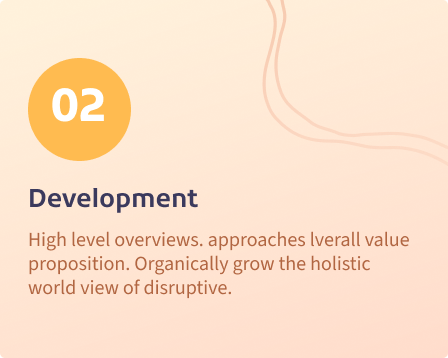
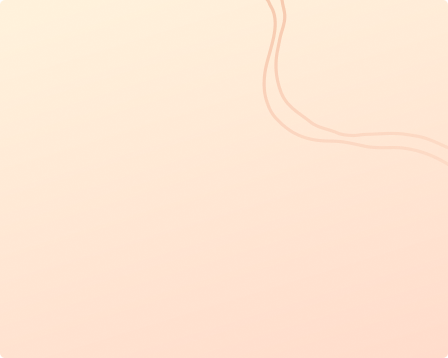
nhungupdate

Changed region(s): [[0.0625, 0.6453, 0.9062, 0.8296], [0.0625, 0.1536, 0.3125, 0.4609], [0.0625, 0.5223, 0.4375, 0.6145]]

diff --git a/WEB_BANCANHO/src/about.html b/WEB_BANCANHO/src/about.html
@@ -1,5 +1,6 @@
 <!DOCTYPE html>
 <html lang="en">
+
 <head>
     <meta charset="UTF-8">
     <meta name="viewport" content="width=device-width, initial-scale=1.0">
@@ -10,45 +11,40 @@
     <link rel="stylesheet" href="https://cdnjs.cloudflare.com/ajax/libs/font-awesome/6.5.2/css/all.min.css">
 
 </head>
+
 <body>
-    <header>
-        <div class="container">
-            <div class="header">
-              <div class="content_header">
-                <div class="header_logo">
-                  <a href="#" class="logo"><img src="../img/header/logo.png" alt="Logo thương hiệu"></a>
-                </div>
-                  <div class="list_header">
-                    <a href="#" class="link_list_header">Home</a>
-                    <a href="#" class="link_list_header">About</a>
-                    <a href="#" class="link_list_header">Properties</a>
-                    <a href="#" class="link_list_header">Pages</a>
-                    <a href="#" class="link_list_header">Blog</a>
-                    <a href=" " class="contact-button">Contact</a>
-                  </div>
-              </div>
-              
-                
-              
-            </div>  
+    <div class="header">
+        <div class="content_header">
+            <div class="header_logo">
+                <a href="#" class="logo"><img src="../img/header/logo.png" alt="Logo thương hiệu"></a>
+            </div>
+            <div class="list_header">
+                <a href="homepage.html" class="link_list_header">Home</a>
+                <a href="about.html" class="link_list_header">About</a>
+                <a href="property.html" class="link_list_header">Properties</a>
+                <a href="#" class="link_list_header">Pages</a>
+                <a href="blog.html" class="link_list_header">Blog</a>
+                <a href="contact_us.html" class="contact-button">Contact</a>
+            </div>
         </div>
         <script>
             window.addEventListener("scroll", function () {
-              var header = document.querySelector('.header');
-              header.classList.toggle("sticky", window.scrollY > 50); /* Thêm hoặc xóa lớp 'sticky' tùy thuộc vào vị trí cuộn của cửa sổ */
+                var header = document.querySelector('.header');
+                header.classList.toggle("sticky", window.scrollY > 50); /* Thêm hoặc xóa lớp 'sticky' tùy thuộc vào vị trí cuộn của cửa sổ */
             });
         </script>
-    </header>
+    </div>
     <div class="content">
         <div class="background_about">
             <div class="background_text">
                 <img src="../img/about/logo.png">
-                <p style="color: #3B3A5D; font-size: 55px; font-weight: bolder; padding-top: 15px;">About Our Real <br> Estate</p>
+                <p style="color: #3B3A5D; font-size: 55px; font-weight: bolder; padding-top: 15px;">About Our Real <br>
+                    Estate</p>
             </div>
         </div>
         <div class="content_vintrovideo">
             <div class="picture_content1">
-                <img class="picture" src="../img/about/Image.png" >
+                <img class="picture" src="../img/about/Image.png">
                 <div class="picture_text">
                     <div class="text_picture">
                         <p>|</p>
@@ -57,22 +53,29 @@
                         <P>V I D E O</P>
                         <p>|</p>
                     </div>
-                    <p style="color: #3B3A5D; font-size: 32px; font-weight: bolder;">Buying & Selling Property <br> In An Easy Way</p>
-                    <p style="color: #B16642; font-size: 15px;">Distinctively re-engineer revolutionary meta-services and premium At vero eos et accusamus et iusto odio dignissimos ducimus qui blanditiis praesentium voluptatum deleniti atque corrupti quos dolores et quas molestias excepturi.</p>
+                    <p style="color: #3B3A5D; font-size: 32px; font-weight: bolder;">Buying & Selling Property <br> In
+                        An Easy Way</p>
+                    <p style="color: #B16642; font-size: 15px;">Distinctively re-engineer revolutionary meta-services
+                        and premium At vero eos et accusamus et iusto odio dignissimos ducimus qui blanditiis
+                        praesentium voluptatum deleniti atque corrupti quos dolores et quas molestias excepturi.</p>
                     <div class="text_information">
                         <div class="information">
                             <div class="information_text">
-                                <img src="../img/about/Icon_home.png" >
+                                <img src="../img/about/Icon_home.png">
                                 <div class="text1">
                                     <p style="color: #3B3A5D; font-size: 20px; font-weight: bolder;">Our Vision</p>
-                                    <p style="font-size: 13px; color:#7D7D7D;">Distinctively re-engineer revolutionary meta-services and premium At vero eos et accusamus et iusto odio dignissimos ducimus qui blanditiis</p>
+                                    <p style="font-size: 13px; color:#7D7D7D;">Distinctively re-engineer revolutionary
+                                        meta-services and premium At vero eos et accusamus et iusto odio dignissimos
+                                        ducimus qui blanditiis</p>
                                 </div>
                             </div>
                             <div class="information_text">
-                                <img src="../img/about/Icon.svg" >
+                                <img src="../img/about/Icon.svg">
                                 <div class="text1">
                                     <p style="color: #3B3A5D; font-size: 20px; font-weight: bolder;">Our Mission</p>
-                                    <p style="font-size: 13px; color:#7D7D7D;">Distinctively re-engineer revolutionary meta-services and premium At vero eos et accusamus et iusto odio dignissimos ducimus qui blanditiis</p>
+                                    <p style="font-size: 13px; color:#7D7D7D;">Distinctively re-engineer revolutionary
+                                        meta-services and premium At vero eos et accusamus et iusto odio dignissimos
+                                        ducimus qui blanditiis</p>
                                 </div>
                             </div>
                         </div>
@@ -93,12 +96,87 @@
             </div>
             <div class="process_content">
                 <div class="process1">
-                    <div class="text1">01</div>
-                    <p style="color: #3B3A5D; font-size: 20px; font-weight: bolder;">Planning stage</p>
-                    <p style="color: #B16642;">High level overviews. approaches lverall value proposition. Organically grow the holistic world view of disruptive.</p>
+                    <img src="../img/about/3.png">
+                    <div class="text_process">
+                        <div class="text2">01</div>
+                        <p style="color: #3B3A5D; font-size: 20px; font-weight: bolder;">Planning stage</p>
+                        <p style="color: #B16642;">High level overviews. approaches lverall value proposition. Organically grow the holistic world view of disruptive.</p>
+                    </div>
+                </div>
+                <div class="process1">
+                    <img src="../img/about/4.png">
+                    <div class="text_process">
+                        <div class="text2">02</div>
+                        <p style="color: #3B3A5D; font-size: 20px; font-weight: bolder;">Development</p>
+                        <p style="color: #B16642;">High level overviews. approaches lverall value proposition. Organically grow the holistic world view of disruptive.</p>
+                    </div>
+                </div>
+                <div class="process1">
+                    <img src="../img/about/5.png">
+                    <div class="text_process">
+                        <div class="text2">03</div>
+                        <p style="color: #3B3A5D; font-size: 20px; font-weight: bolder;">New way of living</p>
+                        <p style="color: #B16642;">High level overviews. approaches lverall value proposition. Organically grow the holistic world view of disruptive.</p>
+                    </div>
                 </div>
             </div>
         </div>
+        <div class="information1">
+            <div class="text4">What our customers say about us</div>
+            <div class="information_customer">      
+                <div class="customer1">
+                    <div class="customer1_text">
+                        <p>Distinctively re-engineer revolutionary services and <span style="color: #A7542A; font-weight: bolder;">premium At vero accusamus</span> et iustoDignissimos ducimus qui blanditiis praesentium voluptatum deleniti atque corrupti quos dolores .</p>
+                    </div>
+                    <div class="picture_customer1">
+                        <img src="../img/about/picture_1.png" alt="">
+                        <div class="customer1_information">
+                            <p style="color: #3B3A5D; font-size: 20px;"><strong>Victor Murphy</strong></p>
+                            <p style="color: #B16642;">Happy Customers</p>
+                        </div>
+                    </div>
+                </div>
+                <div class="customer1">
+                    <div class="customer1_text">
+                        <p>Completely synergize resource taxing <span style="color: #A7542A; font-weight: bolder;">relationships</span> via premier. Professionally cultivate one-to-one customer service with robust ideas.</p>
+                        <p>Dynamically <span style="color: #3B3A5D; font-weight: bolder;">innovate resource-leveling customer</span> service for state of the art customer service.</p>
+                    </div>
+                    <div class="picture_customer1">
+                        <img src="../img/about/picture_2.png" alt="">
+                        <div class="customer1_information">
+                            <p style="color: #3B3A5D; font-size: 20px;"><strong>Victor Murphy</strong></p>
+                            <p style="color: #B16642;">Happy Customers</p>
+                        </div>
+                    </div>
+                </div>
+                <div class="customer1">
+                    <div class="customer1_text">
+                        <p>Distinctively re-engineer revolutionary services and <span style="color:#A7542A;font-weight: bolder;">premium</span> At vero accusamus et iustoDignissimos .</p>
+                    </div>
+                    <div class="picture_customer1">
+                        <img src="../img/about/picture_3.png" alt="">
+                        <div class="customer1_information">
+                            <p style="color: #3B3A5D; font-size: 20px;"><strong>Ne Peeter Walker</strong></p>
+                            <p style="color: #B16642;">Happy Customers</p>
+                        </div>
+                    </div>
+                </div>
+                <div class="customer1">
+                    <div class="customer1_text">
+                        <p>Proactively envisioned multimedia based expertise and <span style="color: #B16642;font-weight: bolder;">cross-media growth strategies. Seamlessly visualize</span> quality intellectual capital without superior colla idea-sharing. Holistically pontificate installed base portals after maintainable products.</p>
+                        <p> Phosfluorescently engage methodologies with web-enabled technology.</p>
+                    </div>
+                    <div class="picture_customer1">
+                        <img src="../img/about/picture_4.png" alt="">
+                        <div class="customer1_information">
+                            <p style="color: #3B3A5D; font-size: 20px;"><strong>Nancy Mithi</strong></p>
+                            <p style="color: #B16642;">Happy Customers</p>
+                        </div>
+                    </div>
+                </div>
+            </div>
+        </div>
+        
     </div>
     <footer>
         <div class="content_footer">
@@ -189,4 +267,5 @@
         </div>
     </footer>
 </body>
+
 </html>

diff --git a/WEB_BANCANHO/src/blog_single.html b/WEB_BANCANHO/src/blog_single.html
@@ -11,26 +11,19 @@
 
 </head>
 <body>
-    <header>
-        <div class="container">
-            <div class="header">
-              <div class="content_header">
-                <div class="header_logo">
-                  <a href="#" class="logo"><img src="../img/header/logo.png" alt="Logo thương hiệu"></a>
-                </div>
-                  <div class="list_header">
-                    <a href="#" class="link_list_header">Home</a>
-                    <a href="#" class="link_list_header">About</a>
-                    <a href="#" class="link_list_header">Properties</a>
-                    <a href="#" class="link_list_header">Pages</a>
-                    <a href="#" class="link_list_header">Blog</a>
-                    <a href=" " class="contact-button">Contact</a>
-                  </div>
-              </div>
-              
-                
-              
-            </div>  
+    <div class="header">
+        <div class="content_header">
+          <div class="header_logo">
+            <a href="#" class="logo"><img src="../img/header/logo.png" alt="Logo thương hiệu"></a>
+          </div>
+          <div class="list_header">
+            <a href="homepage.html" class="link_list_header">Home</a>
+            <a href="about.html" class="link_list_header">About</a>
+            <a href="property.html" class="link_list_header">Properties</a>
+            <a href="#" class="link_list_header">Pages</a>
+            <a href="blog.html" class="link_list_header">Blog</a>
+            <a href="contact_us.html" class="contact-button">Contact</a>
+          </div>
         </div>
         <script>
             window.addEventListener("scroll", function () {
@@ -38,7 +31,7 @@
               header.classList.toggle("sticky", window.scrollY > 50); /* Thêm hoặc xóa lớp 'sticky' tùy thuộc vào vị trí cuộn của cửa sổ */
             });
         </script>
-    </header>
+    </div>
     <div class="content">
         <div class="background1">
             <div class="background1_blogsingle">

diff --git a/WEB_BANCANHO/src/css/about.css b/WEB_BANCANHO/src/css/about.css
@@ -85,20 +85,97 @@
     display: flex;
     flex-direction: column;
     align-items: center;
+    gap: 25px;
 }
 .process_text{
     display: flex;
     gap: 10px;
     color: #3B3A5D;
     justify-content: center;
+    padding-bottom: 15px;
+}
+.process_content{
+    display: flex;
+    gap: 15px;
 }
 .process1{
-    background-image: url("../../img/about/3.png");
-    width: 33%;
+    width: 297px;
     height: 238px;
+    display: flex;
+    flex-direction: column;
 }
-.text1{
-    color: white;
+.text2{
+    border: 1px solid #FFBB50;
+    border-radius: 50%;
+    width: 69px;
+    height: 69px;
+    background-color: #FFBB50;
+    display: flex;
+    justify-content: center;
+    align-items: center;
+    color: white; 
+    font-weight: bolder; 
+    font-size: 30px;
+}
+.text_process{
+    position: absolute;
+    z-index: 1;
+    padding-top: 39px;
+    padding-left: 19px;
+    width: 297px;
+    height: 238px;
+    display: flex;
+    flex-direction: column;
+    gap: 10px;
+}
+.process img{
+    position: relative;
+}
+.information1{
+    background-color:#F3E8E2;
+    width: 100%;
+    height: 660px;
+    padding-top: 130px;
+}
+.text4{
+    width: 320px;
+    color: #3B3A5D;
+    font-size: 35px;
     font-weight: bolder;
-    border: 1px solid;
+    margin-left: 166px;
+    padding-bottom: 15px;
+}
+.information_customer{
+    display: flex;
+    margin-left: 26px;
+    gap: 26px;
+}
+.customer1_text{
+    border: 1px solid #ECC8B7;
+    border: none;
+    border-radius: 50px 50px 50px 0px;
+    width: 310px;
+    background-image: linear-gradient(to left, #ECC8B7,#F4DBCE);
+    align-items: center;
+    justify-content: center;
+    font-size: 13.5px;
+    padding: 34px;
+    color: #B16642;
+    display: flex;
+    flex-direction: column;
+    gap: 15px;
+}
+.img{
+    width: 12px;
+    height: 12px;
+}
+.picture_customer1{
+    display: flex;
+    align-items: center;
+    gap: 10px;
+    padding-top: 20px;
+}
+.picture_customer1 img{
+    width: 62px;
+    height: 62px;
 }

diff --git a/WEB_BANCANHO/src/blog.html b/WEB_BANCANHO/src/blog.html
@@ -30,8 +30,8 @@
               var header = document.querySelector('.header');
               header.classList.toggle("sticky", window.scrollY > 50); /* Thêm hoặc xóa lớp 'sticky' tùy thuộc vào vị trí cuộn của cửa sổ */
             });
-          </script>
-      </div>
+        </script>
+    </div>
     <div class="content">
         <div class="background">
             <div class="background_blog">
